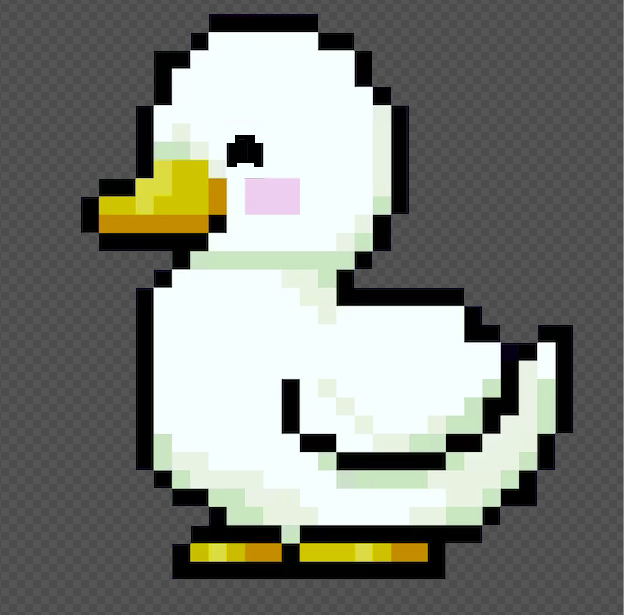
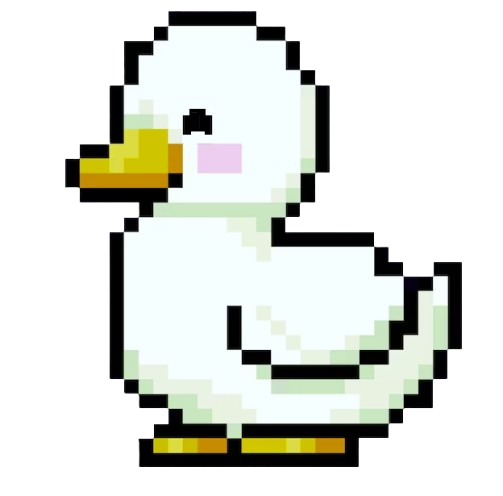
THE DUCK GIVES KISSES

diff --git a/src/components/user/userprofile.jsx b/src/components/user/userprofile.jsx
@@ -9,6 +9,7 @@ const UserProfile = () => {
   const [status, setStatus] = useState(0);
   const [graphData, setGraphData] = useState(null);
   const [errorMsg, setErrorMsg] = useState("");
+  const [gifSrc, setGifSrc] = useState("ducky.gif"); // State for the gif source
 
   useEffect(() => {
     const fetchUserData = async () => {
@@ -58,13 +59,32 @@ const UserProfile = () => {
     fetchGraphData();
   }, []);
 
+  // Handle gif click
+  const handleGifClick = () => {
+    setGifSrc("heart.gif"); // Change to heart.gif on click
+
+    // Revert back to ducky.gif after 2 seconds
+    setTimeout(() => {
+      setGifSrc("ducky.gif");
+    }, 2000); // Adjust the duration as needed
+  };
+
   return (
     <div>
       <h1>{username}</h1>
       {avatar && <img src={avatar} alt="User Avatar" width="100" />}
       <div>
+        <img
+          className="ducky1"
+          src={gifSrc}
+          alt="User Avatar"
+          onClick={handleGifClick}
+          style={{ cursor: 'pointer' }} // Optional: Show a pointer cursor to indicate it's clickable
+        />
+      </div>
+      <div>
         <label>Status:</label>
-        <progress value={status} min= "0" max="100"></progress>
+        <progress value={status} min="0" max="100"></progress>
       </div>
 
       <div>

diff --git a/src/index.css b/src/index.css
@@ -5,7 +5,6 @@
 
   color-scheme: light dark;
   color: rgba(255, 255, 255, 0.87);
-  /* background-color: #61ae91; */
   background-image:
 	  radial-gradient(60% 50% ellipse at center bottom, #61ae91 0%, #1a7488 100%);
   background-attachment: fixed;
@@ -112,15 +111,29 @@
   background: #ff0800;
 }
 
-.title-box{
-  background: rgb(203, 201, 201) ;
+.title-box {
+  background: rgb(203, 201, 201);
   width: 800px;
-  
+  margin: 20px auto 0;
+  padding: 20px;
+  border-radius: 10px;
 }
 
-.title{
+
+.title {
   display: flex;
   flex-direction: column;
-  justify-content: center;
+  align-items: center;
+  text-align: center; 
   color: black;
+}
+
+.duck {
+  width: 200px;
+  height: auto;
+}
+
+.ducky1{
+  width: 200px;
+  height: auto;
 }

diff --git a/src/components/home.jsx b/src/components/home.jsx
@@ -6,6 +6,7 @@ const Home = () => {
       <div className= "title">
       <h1>WADDLES</h1>
       <br></br>
+      <img className= "duck" src="/waddles-icon.png"/>
       <h2>Your new favourite habit-tracker</h2>
       </div>
     </div>
